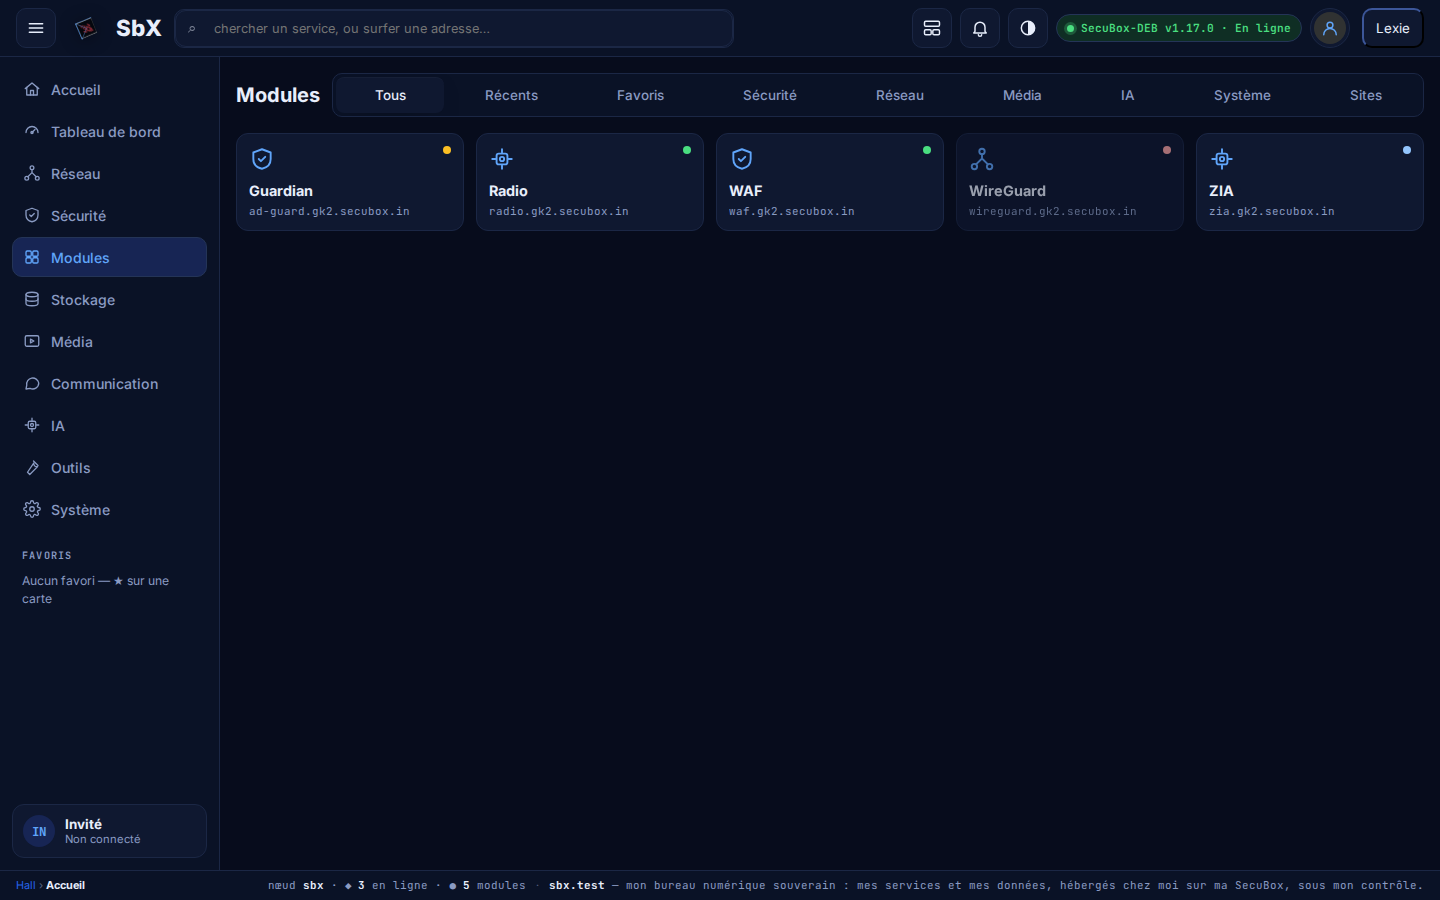
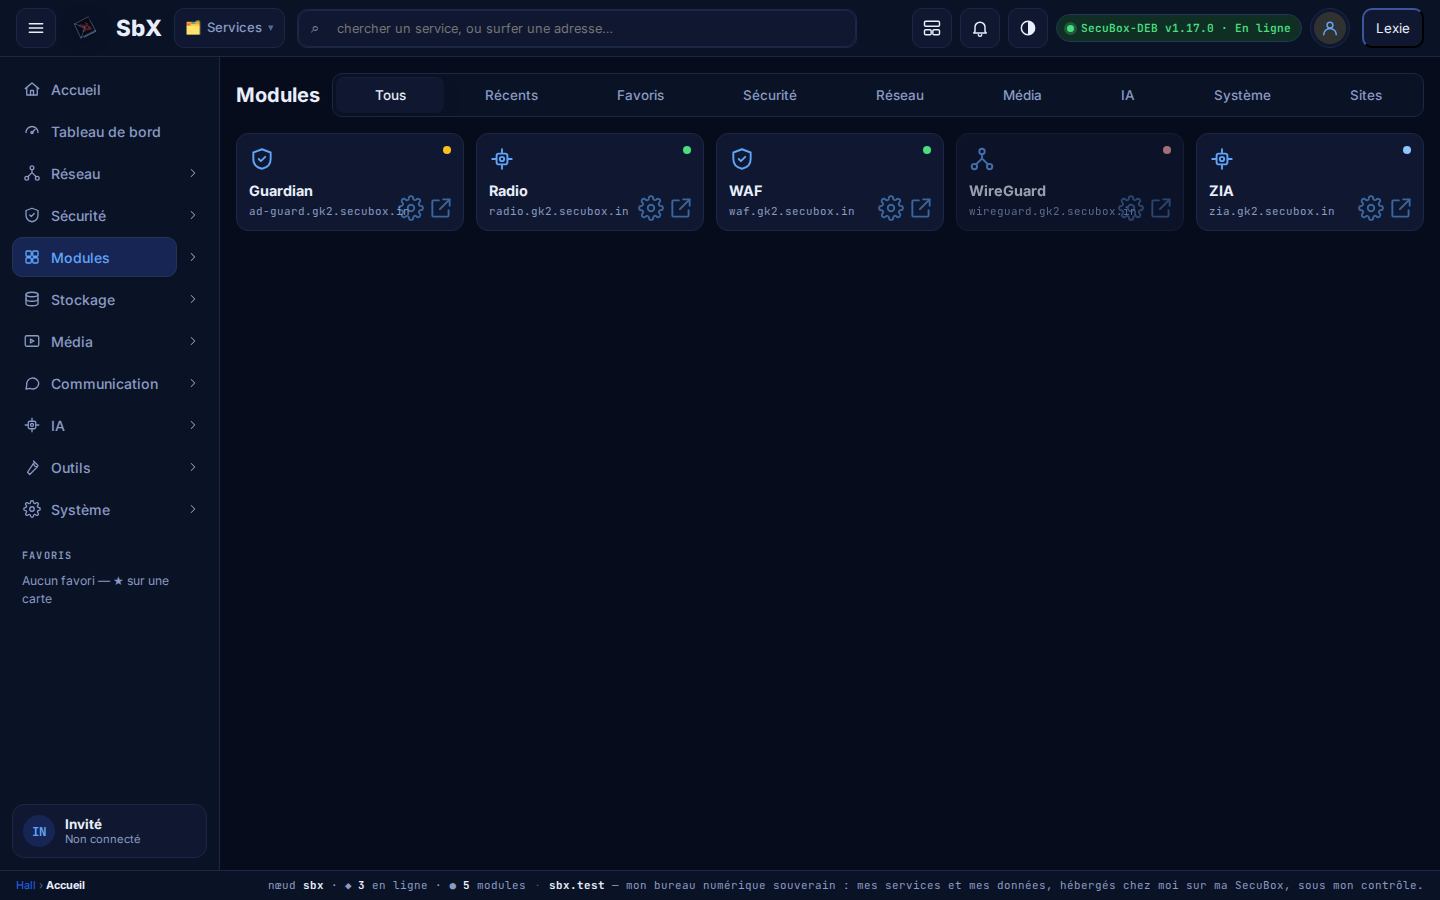
fix: hall v2, retour des menus Services / Système et des accès rapides admin / onglet sur tuiles et sidebar (ref #2996)
La coque v2 masquait .mnav, donc les accès rapides ⚙ console admin et ⧉ onglet réel de chaque
service. Les menus reviennent dans la topbar v2, et les deux accès sont posés sur chaque tuile
de la mosaïque et chaque module déplié de la sidebar. webos 1.18.1 déployé sur gk2, publié.

diff --git a/packages/secubox-webos/www/hall/hall-v2.js b/packages/secubox-webos/www/hall/hall-v2.js
@@ -24,6 +24,7 @@
   var ICONES={
     menu:'<path d="M4 7h16M4 12h16M4 17h16"/>',
     chevron:'<path d="M9 6l6 6-6 6"/>',
+    externe:'<path d="M14 4h6v6M20 4l-9 9"/><path d="M19 14v5a1 1 0 0 1-1 1H5a1 1 0 0 1-1-1V6a1 1 0 0 1 1-1h5"/>',
     maison:'<path d="M3 11.5 12 4l9 7.5"/><path d="M5 10v10h14V10"/><path d="M10 20v-6h4v6"/>',
     jauge:'<path d="M4 14a8 8 0 0 1 16 0"/><path d="M12 14l4-4"/><circle cx="12" cy="14" r="1.5"/>',
     reseau:'<circle cx="12" cy="5" r="2.5"/><circle cx="5" cy="19" r="2.5"/><circle cx="19" cy="19" r="2.5"/><path d="M12 7.5v4M12 11.5 6.5 17M12 11.5l5.5 5.5"/>',
@@ -142,12 +143,21 @@
     if(!rub) return liste;
     return liste.filter(function(m){ return rub.motif.test(m.name+' '+m.description+' '+m.category); });
   }
+  // Accès rapides d'un service, comme dans les menus Services / Système : ⚙ console admin, ⧉ onglet réel.
+  function actions(m){
+    var a=el('span',{'class':'sbx-actions'});
+    var adm=el('button',{type:'button','data-admin':m.id,title:'Console d’administration de '+m.name,'aria-label':'Administrer '+m.name},ico('systeme'));
+    var tab=el('button',{type:'button','data-open':m.id,'data-mode':'tab',title:'Ouvrir '+m.name+' dans un onglet','aria-label':'Ouvrir '+m.name+' dans un onglet'},ico('externe'));
+    a.appendChild(adm); a.appendChild(tab); return a;
+  }
   function tuileModule(m){
-    var b=el('button',{type:'button','class':'sbx-mtuile','data-open':m.id,'data-mode':'embed','data-status':m.status,title:m.description||m.name});
+    var w=el('div',{'class':'sbx-mtuile','data-module':m.id,'data-status':m.status});
+    var b=el('button',{type:'button','class':'ouvre','data-open':m.id,'data-mode':'embed',title:m.description||m.name});
     b.appendChild(svgIco(ICO_CAT[m.category]||'grille'));
     var tx=el('span',{'class':'tx'}); tx.appendChild(el('b',null,m.name)); tx.appendChild(el('small',{'class':'mono'},m.hote||m.id)); b.appendChild(tx);
+    w.appendChild(b);
     var led=el('i',{'class':'sbx-led','data-ton':{active:'ok',idle:'info',offline:'off',stale:'warn'}[m.status]||'neutre','aria-label':{active:'actif',idle:'en veille',offline:'hors ligne',stale:'données périmées'}[m.status]||'aucune source'});
-    b.appendChild(led); return b;
+    w.appendChild(led); w.appendChild(actions(m)); return w;
   }
   function svgIco(n){ var w=el('span'); w.innerHTML=ico(n); return w.firstChild; }
   function tuileSite(s){
@@ -199,7 +209,7 @@
     l.slice(0,14).forEach(function(m){
       var b=el('button',{type:'button','class':'sbx-rub sbx-sous-item','data-open':m.id,'data-mode':'embed','data-status':m.status},'<span></span>');
       b.firstChild.textContent=m.name; var led=el('i',{'class':'sbx-led','data-ton':{active:'ok',idle:'info',offline:'off',stale:'warn'}[m.status]||'neutre'}); b.insertBefore(led,b.firstChild);
-      sous.appendChild(b);
+      var ligne=el('div',{'class':'sbx-sous-ligne'}); ligne.appendChild(b); ligne.appendChild(actions(m)); sous.appendChild(ligne);
     });
     if(l.length>14||!l.length){ var tout=el('button',{type:'button','class':'sbx-rub sbx-sous-tout'},'<span></span>'); tout.firstChild.textContent=l.length?'Tout voir ('+l.length+')':'Voir la mosaïque'; tout.addEventListener('click',function(){ va(rub); }); sous.appendChild(tout); }
     sous.hidden=false; grp.querySelector('.sbx-plier').setAttribute('aria-expanded','true');
@@ -219,7 +229,7 @@
     Array.prototype.forEach.call(document.querySelectorAll('.sbx-sous-item'),function(b){ b.classList.toggle('on',b.getAttribute('data-open')===s.id); });
     Array.prototype.forEach.call(document.querySelectorAll('.sbx-ctx-liste'),function(e){ e.remove(); });
     var item=grp.querySelector('.sbx-sous-item[data-open="'+s.id+'"]'); if(!item) return;
-    var liste=el('div',{'class':'sbx-ctx-liste'}); item.insertAdjacentElement('afterend',liste);
+    var liste=el('div',{'class':'sbx-ctx-liste'}); (item.closest('.sbx-sous-ligne')||item).insertAdjacentElement('afterend',liste);
     fetch('/api/v1/webos/public/menu/'+encodeURIComponent(s.id),{credentials:'same-origin'}).then(function(r){ return r.ok?r.json():null; }).then(function(m){
       var items=(m&&m.items)||[]; if(!items.length||!liste.isConnected) return;
       var cur=(typeof _sub!=='undefined')?_sub:null;

diff --git a/packages/secubox-webos/www/hall/hall-v2.css b/packages/secubox-webos/www/hall/hall-v2.css
@@ -12,7 +12,16 @@
 [data-hall="v2"] .mast{background:var(--sbx-surface-2);border-bottom:1px solid var(--sbx-bordure-2);box-shadow:none;
   -webkit-backdrop-filter:none;backdrop-filter:none}
 [data-hall="v2"] .mast-main{max-width:none;padding:0 var(--sbx-e-4);min-height:var(--sbx-top);gap:var(--sbx-e-3);flex-wrap:nowrap}
-[data-hall="v2"] .mnav{display:none}
+/* Les menus Services ▾ / Système ▾ restent : ce sont les accès rapides (⚙ admin, ⧉ onglet) de chaque service. */
+[data-hall="v2"] .mnav{display:flex;gap:4px}
+[data-hall="v2"] .mnav .it{height:40px;padding:0 10px;border:1px solid var(--sbx-bordure-2);border-radius:var(--sbx-rayon-s);background:var(--sbx-surface);color:var(--sbx-texte-attenue);font-size:.82rem}
+[data-hall="v2"] .mnav .it.on{background:var(--sbx-info-fond);color:var(--sbx-accent-2);border-color:var(--sbx-bordure)}
+[data-hall="v2"] .megamenu{top:calc(var(--mast-h,56px) + 6px);border-color:var(--sbx-bordure);background:var(--sbx-surface);box-shadow:var(--sbx-ombre)}
+.sbx-actions{display:inline-flex;gap:2px;flex:none}
+.sbx-actions button{width:28px;height:28px;display:inline-grid;place-items:center;border:1px solid transparent;border-radius:8px;background:none;color:var(--sbx-texte-attenue);cursor:pointer;padding:0}
+.sbx-actions button:hover{background:var(--sbx-surface-2);color:var(--sbx-texte);border-color:var(--sbx-bordure-2)}
+.sbx-actions button:focus-visible{outline:none;box-shadow:var(--sbx-halo-focus)}
+.sbx-actions .sbx-ico{width:15px;height:15px}
 [data-hall="v2"] .logo img.medaille,[data-hall="v2"] .medaillon,[data-hall="v2"] .medaillon .mface{width:36px;height:36px}
 [data-hall="v2"] .logo-notif{left:24px}
 [data-hall="v2"] .logo sbx-dice{display:inline-block;line-height:0;filter:drop-shadow(var(--sbx-dice-ombre))}
@@ -135,7 +144,16 @@
 .sbx-mtuile,.sbx-stuile{position:relative;display:flex;flex-direction:column;gap:8px;min-height:92px;padding:12px;border:1px solid var(--sbx-bordure-2);border-radius:var(--sbx-rayon-m);
   background:var(--sbx-surface);color:var(--sbx-texte);text-align:left;text-decoration:none;cursor:pointer;font:inherit;min-width:0}
 .sbx-mtuile:hover,.sbx-stuile:hover{border-color:var(--sbx-bordure);box-shadow:var(--sbx-ombre)}
-.sbx-mtuile:focus-visible,.sbx-stuile:focus-visible{outline:none;box-shadow:var(--sbx-halo-focus)}
+.sbx-mtuile:focus-within,.sbx-stuile:focus-visible{outline:none;box-shadow:var(--sbx-halo-focus)}
+.sbx-mtuile .ouvre{display:flex;flex-direction:column;gap:8px;flex:1 1 auto;min-width:0;border:0;background:none;color:inherit;font:inherit;text-align:left;cursor:pointer;padding:0}
+.sbx-mtuile .ouvre:focus-visible{outline:none}
+.sbx-mtuile .sbx-actions{position:absolute;right:8px;bottom:8px;opacity:.55}
+.sbx-mtuile:hover .sbx-actions,.sbx-mtuile:focus-within .sbx-actions{opacity:1}
+.sbx-sous-ligne{display:flex;align-items:center;gap:2px}
+.sbx-sous-ligne .sbx-sous-item{flex:1 1 auto;min-width:0}
+.sbx-sous-ligne .sbx-actions{opacity:0}
+.sbx-sous-ligne:hover .sbx-actions,.sbx-sous-ligne:focus-within .sbx-actions{opacity:1}
+.sbx-sous-ligne .sbx-actions button{width:24px;height:24px}
 .sbx-mtuile .sbx-ico{width:26px;height:26px;color:var(--sbx-accent-2)}
 .sbx-mtuile .tx,.sbx-stuile .tx{min-width:0}
 .sbx-mtuile b,.sbx-stuile b{display:block;font-size:.9rem;overflow:hidden;text-overflow:ellipsis;white-space:nowrap}

diff --git a/packages/secubox-webos/tests/test_mosaique_2996.py b/packages/secubox-webos/tests/test_mosaique_2996.py
@@ -75,9 +75,13 @@ def test_modules_ouvre_la_mosaique_de_tous_les_modules(nav):
     assert p.evaluate("document.querySelectorAll('#view-mosaique .sbx-mtuile').length") == 5
     noms = p.evaluate("[...document.querySelectorAll('#view-mosaique .sbx-mtuile b')].map(e=>e.textContent)")
     assert noms == sorted(noms, key=str.casefold)
-    assert p.evaluate("[...document.querySelectorAll('#view-mosaique .sbx-mtuile')].every(t=>t.tagName==='BUTTON'&&t.getAttribute('data-open')&&t.querySelector('svg.sbx-ico')&&t.querySelector('.sbx-led'))")
-    assert p.evaluate("document.querySelector('#view-mosaique .sbx-mtuile[data-open=zia] .sbx-led').getAttribute('data-ton')") == "info"
-    assert p.evaluate("document.querySelector('#view-mosaique .sbx-mtuile[data-open=wireguard]').getAttribute('data-status')") == "offline"
+    assert p.evaluate("[...document.querySelectorAll('#view-mosaique .sbx-mtuile')].every(t=>{const o=t.querySelector('button.ouvre');return o&&o.getAttribute('data-open')&&o.getAttribute('data-mode')==='embed'&&t.querySelector('svg.sbx-ico')&&t.querySelector('.sbx-led')})")
+    # accès rapides comme dans les menus Services / Système : ⚙ console admin et ⧉ onglet réel
+    assert p.evaluate("[...document.querySelectorAll('#view-mosaique .sbx-mtuile')].every(t=>t.querySelector('.sbx-actions [data-admin]')&&t.querySelector('.sbx-actions [data-open][data-mode=tab]'))")
+    assert p.evaluate("document.querySelector('#view-mosaique .sbx-mtuile[data-module=zia] .sbx-led').getAttribute('data-ton')") == "info"
+    assert p.evaluate("document.querySelector('#view-mosaique .sbx-mtuile[data-module=wireguard]').getAttribute('data-status')") == "offline"
+    # les menus Services / Système de la barre restent accessibles en v2
+    assert p.evaluate("getComputedStyle(document.querySelector('.mnav')).display") != "none"
     assert p.evaluate("document.querySelector('.sbx-side .sbx-rub.on').getAttribute('data-rub')") == "modules"
     if CAPTURES:
         p.screenshot(path=str(Path(CAPTURES) / "hall-v2-mosaique.png"))
@@ -90,7 +94,7 @@ def test_rubrique_securite_filtre_et_l_onglet_sites_montre_les_vignettes(nav):
     p.click(".sbx-side .sbx-rub[data-rub='securite']")
     p.wait_for_selector("#view-mosaique:not(.hidden) .sbx-mtuile", state="attached")
     assert p.inner_text("#view-mosaique .sbx-mosaique-titre") == "Sécurité"
-    assert sorted(p.evaluate("[...document.querySelectorAll('#view-mosaique .sbx-mtuile')].map(t=>t.getAttribute('data-open'))")) == ["ad-guard", "waf"]
+    assert sorted(p.evaluate("[...document.querySelectorAll('#view-mosaique .sbx-mtuile')].map(t=>t.getAttribute('data-module'))")) == ["ad-guard", "waf"]
     assert p.evaluate("document.querySelector('#view-mosaique [role=tab][aria-selected=true]').getAttribute('data-id')") == "securite"
     p.click("#view-mosaique [role=tab][data-id='sites']")
     p.wait_for_selector("#view-mosaique .sbx-stuile", state="attached")
@@ -107,14 +111,14 @@ def test_rubrique_securite_filtre_et_l_onglet_sites_montre_les_vignettes(nav):
 def test_une_tuile_ouvre_le_service_dans_le_hall_et_nourrit_les_recents(nav):
     ctx, p, erreurs = ouvre(nav)
     p.click(".sbx-side .sbx-rub[data-rub='modules']")
-    p.wait_for_selector("#view-mosaique:not(.hidden) .sbx-mtuile[data-open=radio]", state="attached")
-    p.click("#view-mosaique .sbx-mtuile[data-open=radio]")
+    p.wait_for_selector("#view-mosaique:not(.hidden) .sbx-mtuile[data-module=radio]", state="attached")
+    p.click("#view-mosaique .sbx-mtuile[data-module=radio] .ouvre")
     p.wait_for_selector("#view-embed:not(.hidden)", state="attached")
     assert p.evaluate("document.getElementById('view-mosaique').classList.contains('hidden')")
     assert p.evaluate("JSON.parse(localStorage.getItem('sbx.hall.recents'))") == ["radio"]
     p.click(".sbx-side .sbx-rub[data-rub='modules']")
     p.click("#view-mosaique [role=tab][data-id='recents']")
-    assert p.evaluate("[...document.querySelectorAll('#view-mosaique .sbx-mtuile')].map(t=>t.getAttribute('data-open'))") == ["radio"]
+    assert p.evaluate("[...document.querySelectorAll('#view-mosaique .sbx-mtuile')].map(t=>t.getAttribute('data-module'))") == ["radio"]
     p.click("#view-mosaique [role=tab][data-id='favoris']")
     assert not p.evaluate("document.querySelector('#view-mosaique .sbx-mosaique-vide').hidden")
     assert erreurs == []

diff --git a/packages/secubox-webos/tests/test_menus_lies_2996.py b/packages/secubox-webos/tests/test_menus_lies_2996.py
@@ -68,6 +68,8 @@ def test_une_rubrique_se_deplie_sur_ses_modules_et_les_ouvre(nav):
     assert p.evaluate("document.querySelector('.sbx-grp[data-grp=communication] .sbx-plier').getAttribute('aria-expanded')") == "true"
     items = p.evaluate("[...document.querySelectorAll('.sbx-grp[data-grp=communication] .sbx-sous-item')].map(b=>[b.getAttribute('data-open'),b.getAttribute('data-mode'),b.textContent.trim()])")
     assert ["bbs", "embed", "BBS"] in items and all(i[0] != "waf" for i in items)
+    # chaque module déplié porte ses accès rapides ⚙ admin et ⧉ onglet
+    assert p.evaluate("[...document.querySelectorAll('.sbx-grp[data-grp=communication] .sbx-sous-ligne')].every(l=>l.querySelector('[data-admin]')&&l.querySelector('[data-open][data-mode=tab]'))")
     p.click(".sbx-grp[data-grp='communication'] .sbx-plier")
     assert p.evaluate("document.querySelector('.sbx-grp[data-grp=communication] .sbx-sous').hidden")
     assert erreurs == []
